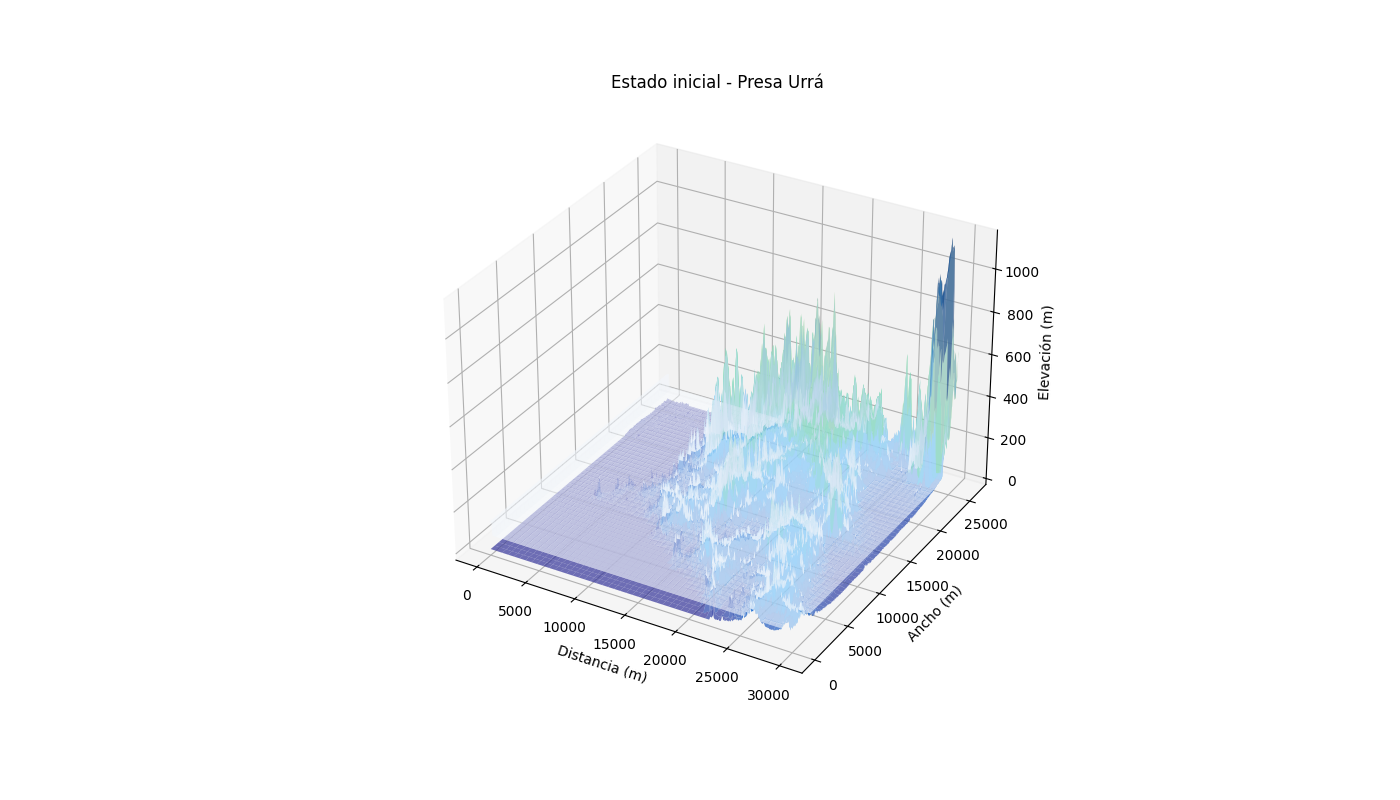
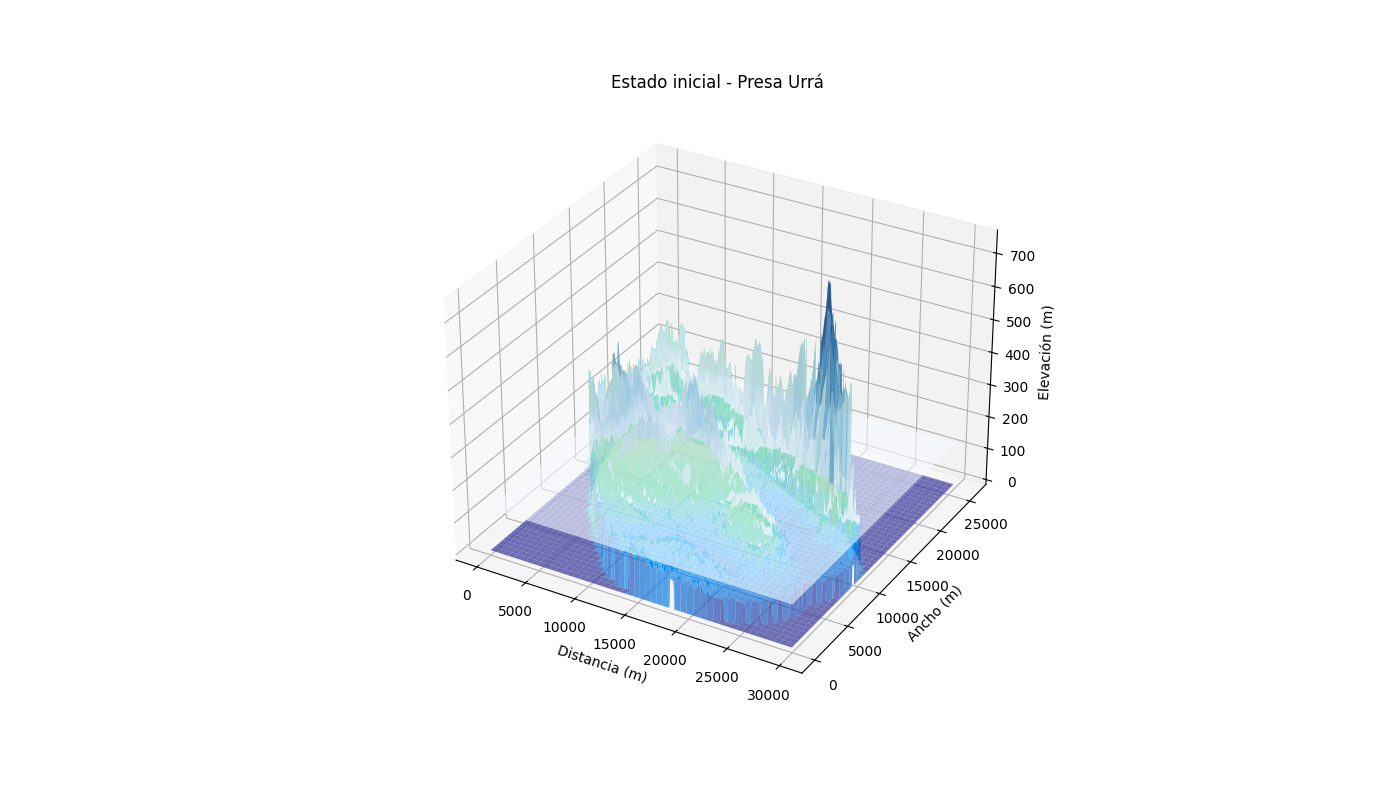
Initial visualization works very well, now, need to make a simulation to see if everything works.

diff --git a/python_visualization/initial-visualizer.py b/python_visualization/initial-visualizer.py
@@ -5,7 +5,7 @@ NX, NY = 600, 520
 DX, DY = 50.0, 50.0
 
 try:
-    zb = np.fromfile('/home/nicolas/UrraDamBreachSimulation/data/urra_topography.bin', dtype=np.float64).reshape(NY, NX)
+    zb = np.fromfile('/home/nicolas/UrraDamBreachSimulation/data/urra_specific_topography.bin', dtype=np.float64).reshape(NY, NX)
     print("Topografía real cargada")
 except:
     x = np.arange(NX) * DX
@@ -14,17 +14,23 @@ except:
     zb = 50.0 - 0.00015 * X + 2.0 * np.sin(0.001 * Y)
     print("Topografía sintética generada")
 
-
 h = np.zeros((NY, NX))
 H_UPSTREAM, H_DOWNSTREAM = 130.5, 68.0
 DAM_X_POS = 0 
 
 for j in range(NY):
     for i in range(NX):
-        if i < DAM_X_POS + 5:  
-            h[j, i] = max(0, H_UPSTREAM - zb[j, i])
-        else:  
-            h[j, i] = max(0, H_DOWNSTREAM - zb[j, i])
+        # Agua donde el terreno está por debajo del nivel del embalse
+        if zb[j, i] < H_UPSTREAM:
+            h[j, i] = H_UPSTREAM - zb[j, i]
+        else:
+            h[j, i] = 0.01
+        
+        # Aguas abajo (río) - después de la presa
+        if i > DAM_X_POS and zb[j, i] < H_DOWNSTREAM + 10.0:
+            rio_depth = H_DOWNSTREAM - zb[j, i]
+            if rio_depth > h[j, i]:
+                h[j, i] = rio_depth
         if h[j, i] < 0.01:
             h[j, i] = 0.01
 

diff --git a/data/final-conversion.py b/data/final-conversion.py
@@ -1,0 +1,16 @@
+import rasterio
+import numpy as np
+from scipy.ndimage import zoom
+
+with rasterio.open('/home/nicolas/UrraDamBreachSimulation/data/urra_only.tif') as src:
+    zb = src.read(1).astype(np.float64)
+
+print(f"Tamaño original: {zb.shape}")
+
+nx, ny = 600, 520
+factor_x = nx / zb.shape[1]
+factor_y = ny / zb.shape[0]
+zb_redim = zoom(zb, (factor_y, factor_x), order=1)
+
+zb_redim.tofile('urra_specific_topography.bin')
+print(f"Guardado: {zb_redim.shape} -> data/urra_specific_topography.bin")

diff --git a/src/init.c b/src/init.c
@@ -30,12 +30,18 @@ void initialize_simulation_parameters(double *h, double *u, double *v, double *z
                 zb[idx] = 50.0 - slope * x + 2.0 * sin(0.001 * y);
             }
 
-            if (i < dam_x_pos) {
+            if (zb[idx] < h_upstream) {
                 h[idx] = h_upstream - zb[idx];
-                if (h[idx] < 0) h[idx] = 0;
             } else {
-                h[idx] = h_downstream - zb[idx];
-                if (h[idx] < 0) h[idx] = 0;
+                h[idx] = 0.01;
+            }
+
+            if (i > dam_x_pos && zb[idx] < h_downstream + 10.0) {
+                double rio_depth = h_downstream - zb[idx];
+                if (rio_depth > h[idx]) {
+                    h[idx] = rio_depth;
+                }
+                if (h[idx] < 0.01) h[idx] = 0.01;
             }
 
             if (h[idx] < 0.01) h[idx] = 0.01; // Minimum Value of water level

diff --git a/src/main.c b/src/main.c
@@ -6,8 +6,8 @@
 #include "utils.h"
 
 // Domain
-#define NX 200
-#define NY 200
+#define NX 600
+#define NY 520
 #define DX 50.0
 #define DY 50.0
 #define DT 0.05
@@ -31,7 +31,7 @@
 #define BREACH_FORMATION_TIME 60.0
 
 // Control
-#define USE_REAL_TOPOGRAPHY 0
+#define USE_REAL_TOPOGRAPHY 1
 
 int main() {
     printf("\n========================================\n");
@@ -60,7 +60,7 @@ int main() {
 
     if (USE_REAL_TOPOGRAPHY) {
         printf("Cargando topografía real...\n");
-        charge_real_topography(zb, NX, NY, "data/urra_topography.bin");
+        charge_real_topography(zb, NX, NY, "data/urra_specific_topography.bin");
     } else {
         printf("Usando topografía sintética\n");
     }